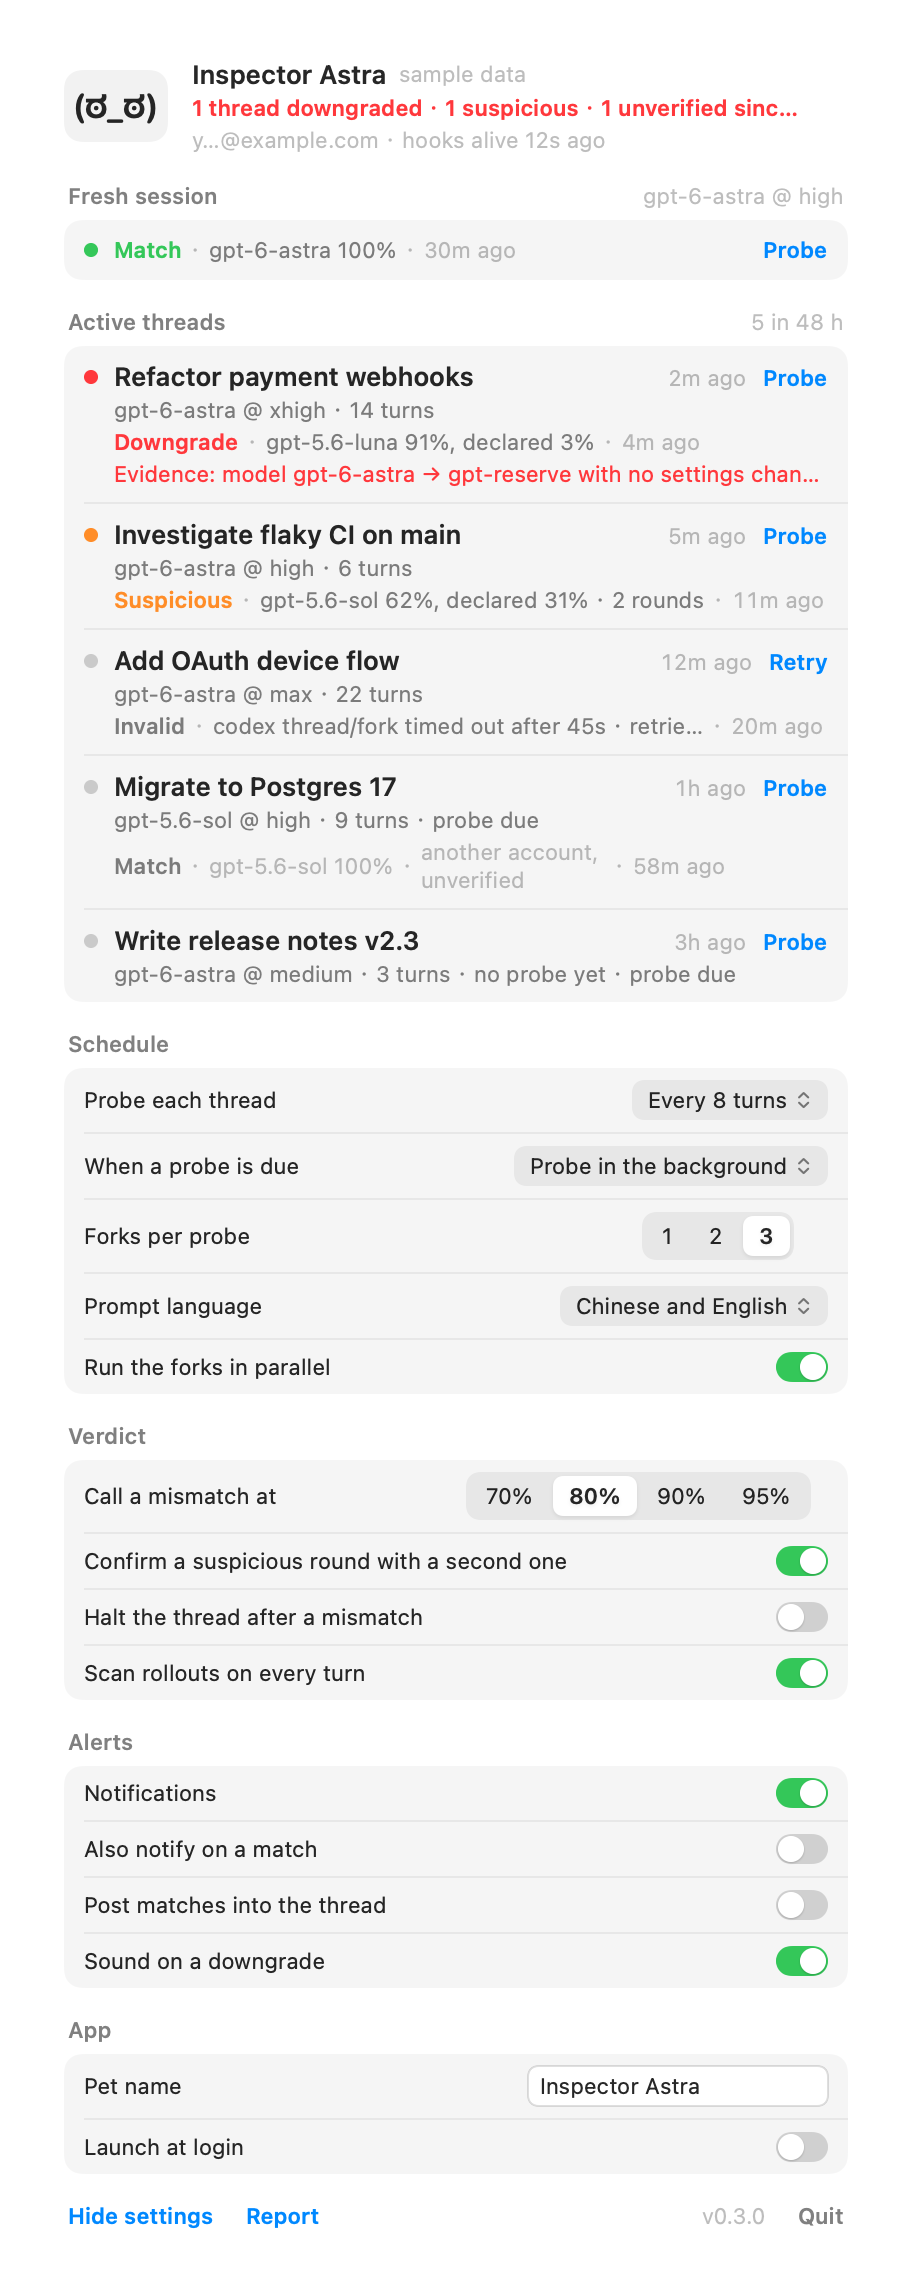
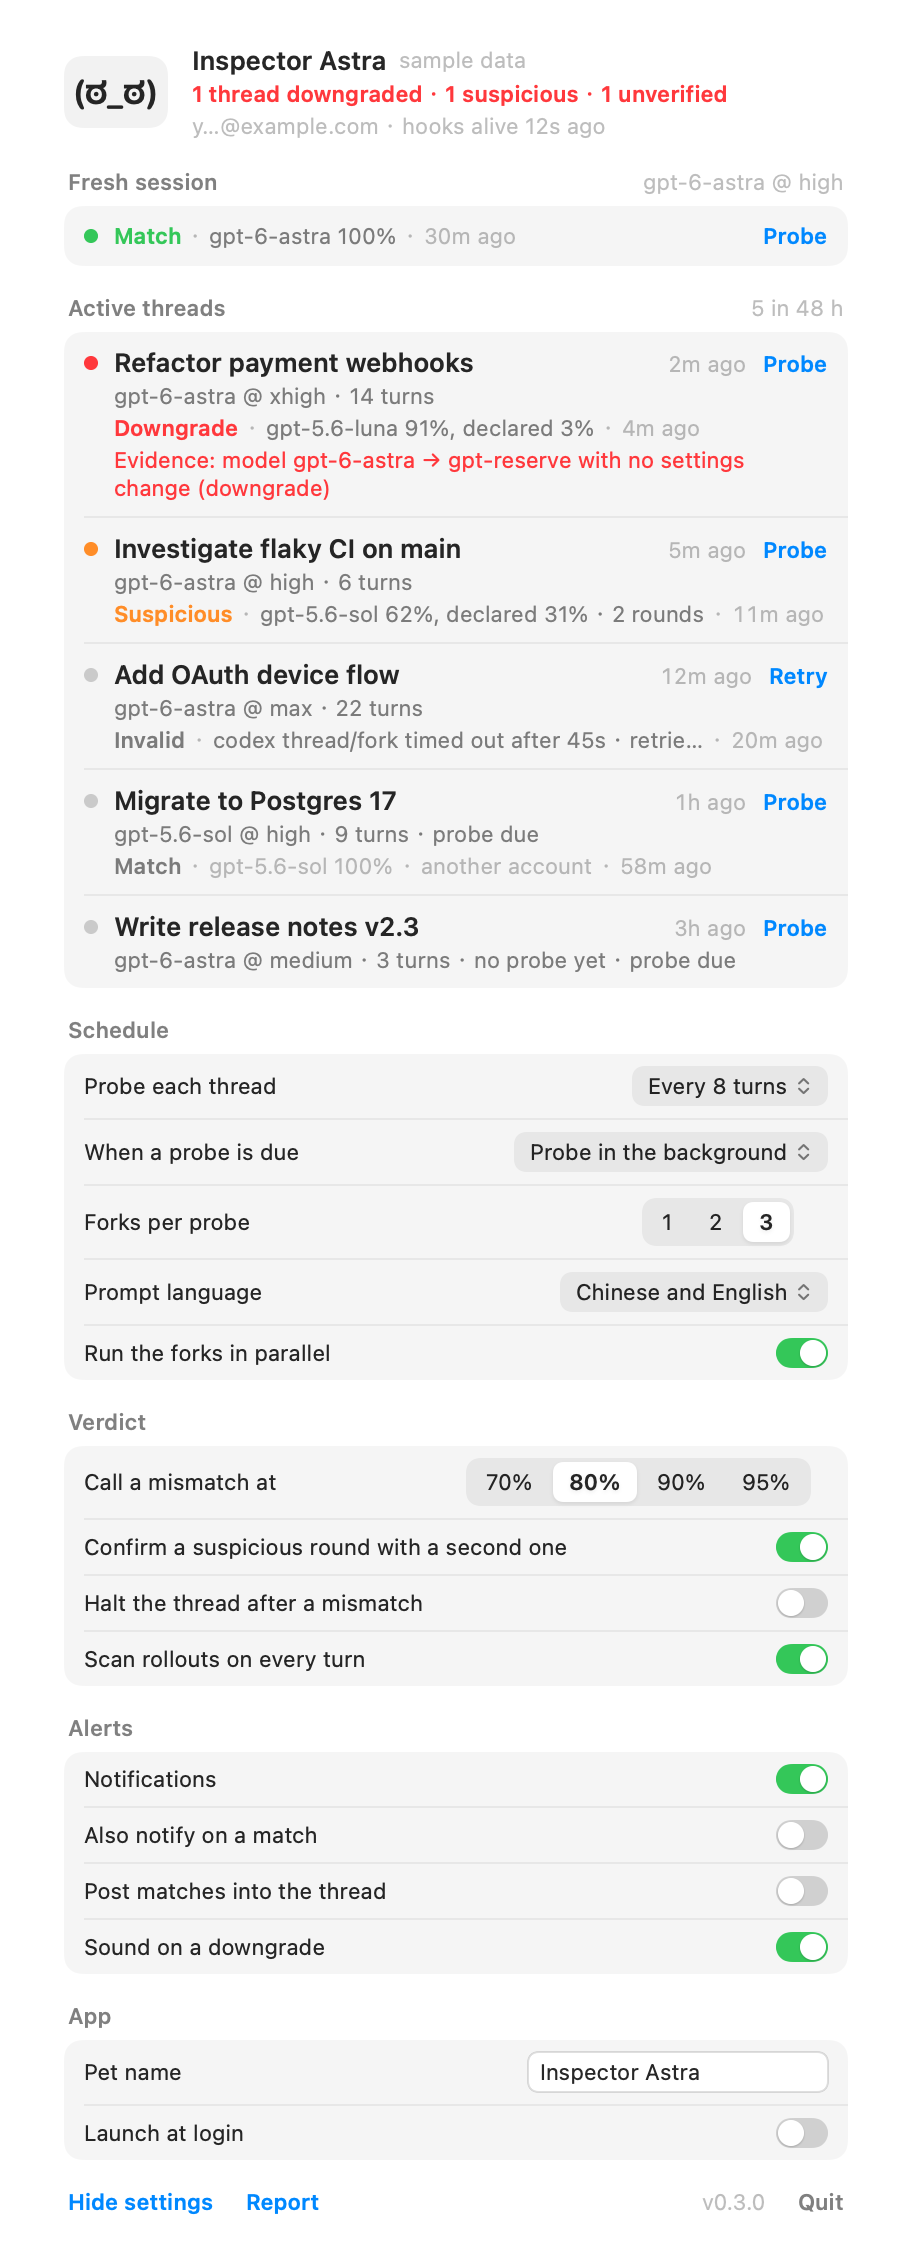
Shorter status message and account note

diff --git a/macos/Sources/IsGPTNerfed/PanelView.swift b/macos/Sources/IsGPTNerfed/PanelView.swift
@@ -66,7 +66,8 @@ struct VerdictLine: View {
             Text(probe.detail).foregroundStyle(stale ? .tertiary : .secondary).lineLimit(1)
             if stale {
                 Text("·").foregroundStyle(.tertiary)
-                Text("another account, unverified").foregroundStyle(.tertiary)
+                Text("another account").foregroundStyle(.tertiary).fixedSize()
+                    .help("Probed while a different Codex account was signed in; it does not vouch for this account. Re-probed when the thread is next active.")
             }
             if let ago = probe.finishedAgo, !ago.isEmpty {
                 Text("·").foregroundStyle(.tertiary)

diff --git a/tests/test_dgc.py b/tests/test_dgc.py
@@ -374,7 +374,7 @@ class ForkProbeTests(unittest.TestCase):
         self.assertTrue(t["unverified"])
         self.assertTrue(t["last_probe"]["stale_account"])
         self.assertTrue(t["due"], "must be re-probed under the new account")
-        self.assertIn("unverified since the account switch", snap["overall"]["message"])
+        self.assertIn("1 unverified", snap["overall"]["message"])
         self.assertEqual(snap["overall"]["status"], "unverified")
         with mock.patch.object(dgc, "link_session", side_effect=lambda st: st.update(kind="main")), \
                 mock.patch.object(dgc, "spawn_worker", return_value=True) as spawn:
